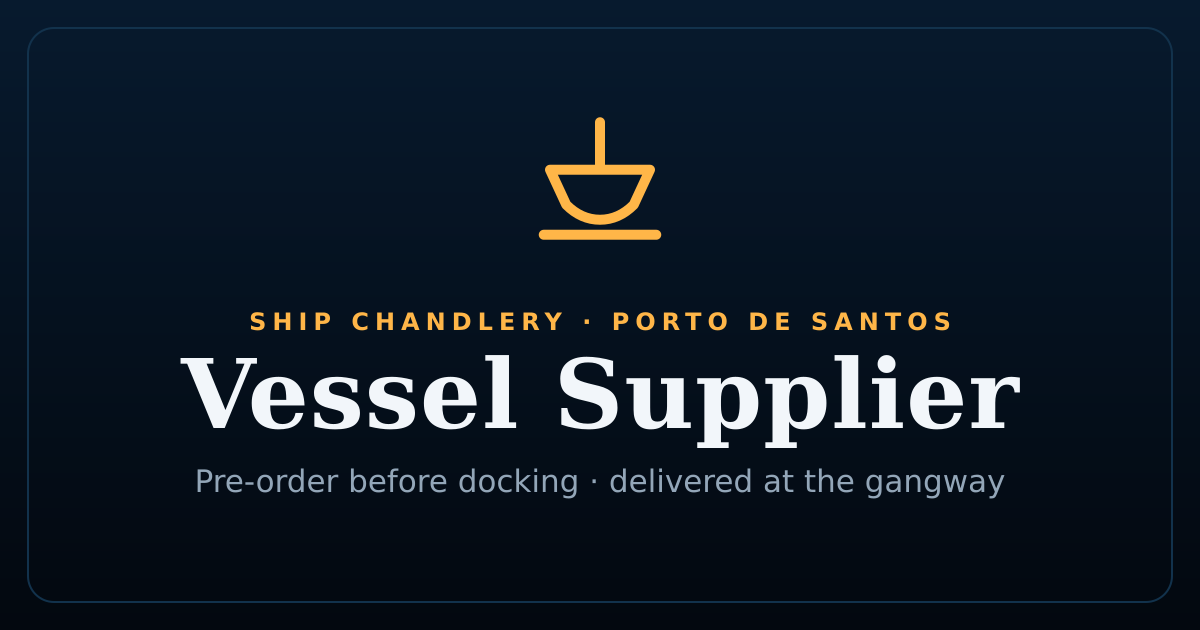
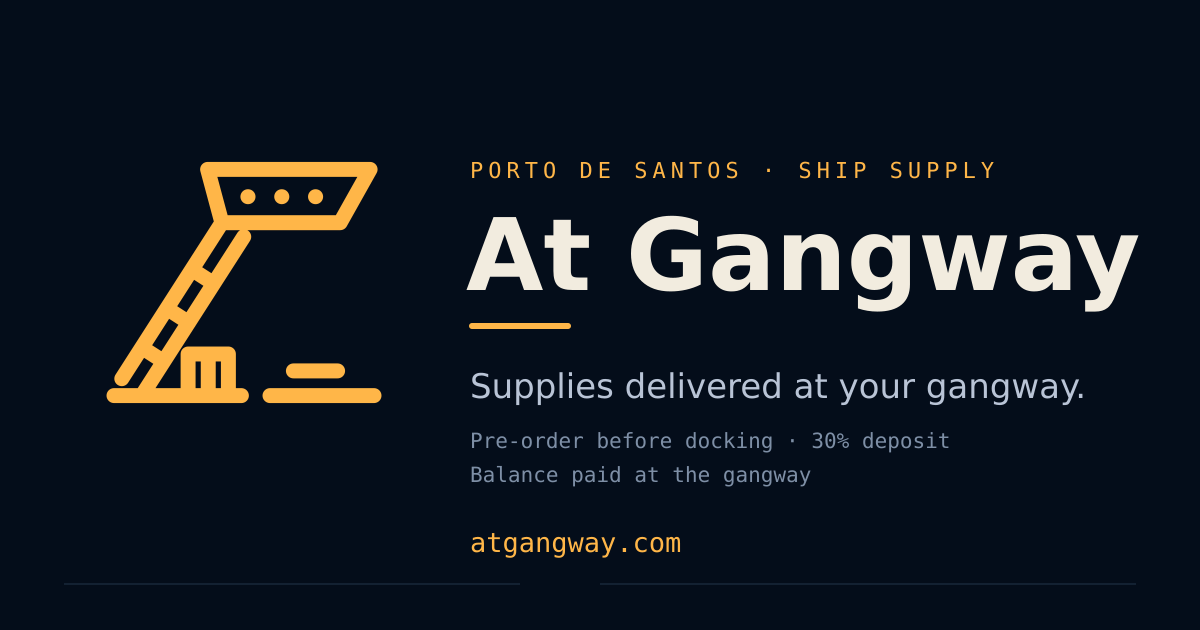
feat(brand): At Gangway — identidade completa, domínio e contato
A marca muda de Vessel Supplier para At Gangway (atgangway.com), e a
identidade deixa de ser um nome escrito:

- Símbolo novo em components/Icon.tsx (mantém o nome IconAnchor pelos
  imports): o momento da entrega desenhado — casco atracado com
  escotilhas, a PRANCHA DE EMBARQUE com degraus pousando no cais, o
  pacote esperando na ponta, e o vão cais/água embaixo. Mesmo traço em
  header, gaveta e página de erro.
- app/icon.svg (aba do Chrome) em versão simplificada — a 16px o que
  tem de ler é a diagonal da prancha; scripts/identidade.mjs gera
  apple-icon.png (180) e public/og.png (1200×630, o cartão de
  WhatsApp/Instagram) do mesmo desenho, via sharp.
- Metadata/OG/twitter/manifest com o nome, descrição e alt novos;
  metadataBase e fallbacks de env → https://atgangway.com; contato →
  help@atgangway.com; WhatsApp no rodapé → wa.me/5511970561448.
- Wordmark At/Gangway no header e na gaveta (aria-labels juntos);
  textos de terms/privacy/share/e-mails/README trocados; templates de
  auth (supabase/templates) idem.
- Código de pedido vira AG-<serial> (migração codigo_ag no banco;
  nota em supabase/migrations/20260831160000_codigo_ag.sql).

Claude-Session: https://claude.ai/code/session_014MYs7gn3q6QqatAh2M38UT

diff --git a/app/layout.tsx b/app/layout.tsx
@@ -8,32 +8,32 @@ import SiteChrome from "@/components/SiteChrome";
 import SiteFooter from "@/components/SiteFooter";
 
 export const metadata: Metadata = {
-  metadataBase: new URL(process.env.NEXT_PUBLIC_SITE_URL || "https://vesselsupplierco.vercel.app"),
+  metadataBase: new URL(process.env.NEXT_PUBLIC_SITE_URL || "https://atgangway.com"),
   title: {
-    default: "Vessel Supplier",
-    template: "%s · Vessel Supplier",
+    default: "At Gangway",
+    template: "%s · At Gangway",
   },
   description:
-    "Pre-order supplies before docking — delivered at the gangway. Porto de Santos.",
+    "Supplies delivered at your gangway. Pre-order before docking — Porto de Santos.",
   openGraph: {
-    siteName: "Vessel Supplier",
-    title: "Vessel Supplier — gangway delivery at Porto de Santos",
+    siteName: "At Gangway",
+    title: "At Gangway — supplies delivered at your gangway",
     description:
-      "Your order rides with your vessel's ETA. Pre-order before docking, pay a 30% deposit, receive at the gangway.",
+      "Your order rides with your vessel's ETA. Pre-order before docking, pay a 30% deposit, receive at the gangway. Porto de Santos.",
     type: "website",
     // O cartão que o WhatsApp mostra. O link do Captain viaja colado em
     // grupo de tripulação, e link sem imagem lê como link suspeito —
     // justamente no canal que é o programa inteiro de indicação.
-    images: [{ url: "/og.png", width: 1200, height: 630, alt: "Vessel Supplier — delivered to your gangway at Porto de Santos" }],
+    images: [{ url: "/og.png", width: 1200, height: 630, alt: "At Gangway — supplies delivered at your gangway, Porto de Santos" }],
   },
   twitter: {
     card: "summary_large_image",
-    title: "Vessel Supplier — gangway delivery at Porto de Santos",
+    title: "At Gangway — supplies delivered at your gangway",
     images: ["/og.png"],
   },
   appleWebApp: {
     capable: true,
-    title: "Vessel",
+    title: "Gangway",
     statusBarStyle: "black-translucent",
   },
 };

diff --git a/app/terms/page.tsx b/app/terms/page.tsx
@@ -7,7 +7,7 @@ import { DEPOSIT_PCT } from "@/lib/money";
 export const metadata: Metadata = {
   title: "Terms & Conditions",
   description:
-    "How an order with Vessel Supplier works — deposit, balance at the gangway, cancellation rights and credit for a diverted call.",
+    "How an order with At Gangway works — deposit, balance at the gangway, cancellation rights and credit for a diverted call.",
 };
 
 /** Data da última revisão do texto. Termo sem data é termo que ninguém
@@ -50,13 +50,13 @@ export default function TermsPage() {
       <h1 className="pagettl">Terms &amp; Conditions</h1>
       <p className="pagelead">
         Last updated {LAST_UPDATED}. These terms govern orders placed with
-        Vessel Supplier.
+        At Gangway.
       </p>
 
       <section className="pdp-block">
         <h3>1 · Who you are contracting with</h3>
         <p className="pdp-text">
-          Vessel Supplier is the online store at Porto de Santos, São Paulo,
+          At Gangway is the online store at Porto de Santos, São Paulo,
           Brazil. Orders are handled by the same
           people who run the counter — there is no marketplace between us and
           you.
@@ -304,7 +304,7 @@ export default function TermsPage() {
           <a className="alink" href={`mailto:${CONTACT_EMAIL}`}>
             {CONTACT_EMAIL}
           </a>{" "}
-          · Vessel Supplier, Porto de Santos, São Paulo, Brazil. See also the{" "}
+          · At Gangway, Porto de Santos, São Paulo, Brazil. See also the{" "}
           <Link className="alink" href="/faq">
             FAQ
           </Link>

diff --git a/lib/emails.ts b/lib/emails.ts
@@ -145,7 +145,7 @@ function shell(opts: {
       </td></tr>
 
       <tr><td style="padding:18px 6px 0;color:${C.faint};font-size:12px;line-height:1.6">
-        Vessel Supplier — Porto de Santos.<br>
+        At Gangway — Porto de Santos.<br>
         Questions? Just reply to this e-mail.
         <a href="${opts.siteUrl}" style="color:${C.faint}">${esc(
           opts.siteUrl.replace(/^https?:\/\//, "")
@@ -293,7 +293,7 @@ export function buildOrderEmail(d: OrderEmailData, siteUrl: string): BuiltEmail 
         ``,
         `Track your order: ${href}`,
         ``,
-        `Vessel Supplier — Porto de Santos.`,
+        `At Gangway — Porto de Santos.`,
       ]
         .filter(Boolean)
         .join("\n"),
@@ -332,7 +332,7 @@ export function buildOrderEmail(d: OrderEmailData, siteUrl: string): BuiltEmail 
         `Show this code at the gangway: #${d.code}`,
         `Open order: ${href}`,
         ``,
-        `Vessel Supplier — Porto de Santos.`,
+        `At Gangway — Porto de Santos.`,
       ]
         .filter(Boolean)
         .join("\n"),
@@ -450,7 +450,7 @@ export function buildOrderEmail(d: OrderEmailData, siteUrl: string): BuiltEmail 
       `Order: ${href}`,
       `Captains earn: share your code with the next crew and get credit on their first order.`,
       ``,
-      `Vessel Supplier — Porto de Santos.`,
+      `At Gangway — Porto de Santos.`,
     ]
       .filter(Boolean)
       .join("\n"),

diff --git a/components/Icon.tsx b/components/Icon.tsx
@@ -87,13 +87,17 @@ export function IconTrash({ size = 17, className }: Props) {
   );
 }
 
-/** Casco da marca — o vessel do Vessel Supplier (mastro, casco e linha
- *  d'água). Mantém o nome IconAnchor para não mexer nos imports; é só o
+/** A marca do At Gangway — o momento da entrega, desenhado: o casco
+ *  atracado no alto (escotilhas acesas), a PRANCHA DE EMBARQUE com
+ *  degraus descendo, e o pacote esperando na ponta. Cais e linha
+ *  d'água separados por um vão — o navio de um lado, a entrega do
+ *  outro, a prancha no meio. É o negócio inteiro num símbolo.
+ *  Mantém o nome IconAnchor para não mexer nos imports; é só o
  *  símbolo do logotipo, com uma casa só. */
 export function IconAnchor({ size = 21, className }: Props) {
   return (
-    <svg {...base(size)} className={className} strokeWidth={1.9}>
-      <path d="M12 3.4V11 M4 11H20L17.4 16.6Q15 19 12 19 9 19 6.6 16.6Z M3 21.4H21" />
+    <svg {...base(size)} className={className} strokeWidth={1.7}>
+      <path d="M9.2 3.8H21.7L19.4 7.9H10.3ZM12.3 5.9h.01M14.9 5.9h.01M17.5 5.9h.01M10.3 7.9 2.6 19.9M11.98 8.98 4.28 20.98M7.99 11.5 9.67 12.58M6.07 14.5 7.75 15.58M4.14 17.5 5.82 18.58M7.7 18h3.1v3.2H7.7ZM9.25 18v3.2M2 21.2h9.8M14 21.2h8M15.8 19.3h3.4" />
     </svg>
   );
 }

diff --git a/components/SiteHeader.tsx b/components/SiteHeader.tsx
@@ -90,14 +90,14 @@ export default function SiteHeader({
           </button>
 
           {/* O nome acessível precisa CONTER o texto visível (WCAG 2.5.3).
-              Os dois spans colavam em "VesselSupplier" — sem o espaço, e
+              Os dois spans colavam em "AtGangway" — sem o espaço, e
               com o travessão no aria-label, nada batia: quem usa comando
-              de voz dizia "clicar Vessel Supplier" e não achava o link. */}
-          <Link href="/" className="sunlogo" aria-label="Vessel Supplier home">
+              de voz dizia "clicar At Gangway" e não achava o link. */}
+          <Link href="/" className="sunlogo" aria-label="At Gangway home">
             <IconAnchor className="mark" />
             <span className="word">
-              <span className="l1">Vessel</span>{" "}
-              <span className="l2">Supplier</span>
+              <span className="l1">At</span>{" "}
+              <span className="l2">Gangway</span>
             </span>
           </Link>
 

diff --git a/components/ShareCode.tsx b/components/ShareCode.tsx
@@ -18,7 +18,7 @@ export default function ShareCode({ code, link }: { code: string; link: string }
      do texto, ou a mensagem chega sem ele. Daí a frase seca para um
      lado e a frase com link para o outro. */
   const frase =
-    `Order from Vessel Supplier with my code ${code} — delivered at the gangway ` +
+    `Order from At Gangway with my code ${code} — delivered at the gangway ` +
     `in Santos.`;
   const comLink = `${frase} ${link}`;
 
@@ -26,7 +26,7 @@ export default function ShareCode({ code, link }: { code: string; link: string }
     // Web Share abre o WhatsApp direto no celular; no desktop cai no copiar.
     if (navigator.share) {
       try {
-        await navigator.share({ title: "Vessel Supplier", text: frase, url: link });
+        await navigator.share({ title: "At Gangway", text: frase, url: link });
         return;
       } catch (e) {
         /* Desistir NÃO é falhar. O catch pegava os dois casos e seguia

diff --git a/app/privacy/page.tsx b/app/privacy/page.tsx
@@ -6,7 +6,7 @@ import { CONTACT_EMAIL } from "@/lib/env";
 export const metadata: Metadata = {
   title: "Privacy Policy",
   description:
-    "What Vessel Supplier collects, why customs requires it, who processes it, and how to exercise your rights under Brazil's LGPD.",
+    "What At Gangway collects, why customs requires it, who processes it, and how to exercise your rights under Brazil's LGPD.",
 };
 
 const LAST_UPDATED = "26 August 2026";
@@ -52,7 +52,7 @@ export default function PrivacyPage() {
       <section className="pdp-block">
         <h3>1 · Who controls your data</h3>
         <p className="pdp-text">
-          Vessel Supplier, at Porto de Santos, São Paulo, Brazil, is the
+          At Gangway, at Porto de Santos, São Paulo, Brazil, is the
           controller. Contact for anything on this page:{" "}
           <a className="alink" href={`mailto:${CONTACT_EMAIL}`}>
             {CONTACT_EMAIL}

diff --git a/lib/env.ts b/lib/env.ts
@@ -34,7 +34,7 @@ export const supabaseConfigured = Boolean(SUPABASE_URL && SUPABASE_ANON_KEY);
 // incondicional porque o metadataBase do layout precisa de uma URL
 // válida até num build sem env nenhuma.
 export const SITE_URL =
-  process.env.NEXT_PUBLIC_SITE_URL || "https://vesselsupplierco.vercel.app";
+  process.env.NEXT_PUBLIC_SITE_URL || "https://atgangway.com";
 
 /* NEXT_PUBLIC_USD_BRL_RATE foi removida. Era 5.30 congelada no build
    com o PTAX real em 5,1490 — e como a cobrança era em real, a
@@ -42,4 +42,4 @@ export const SITE_URL =
    guardada em fx_rates e atualizada por cron. */
 
 export const CONTACT_EMAIL =
-  process.env.NEXT_PUBLIC_CONTACT_EMAIL || "ahoy@marinerssupplyco.com";
+  process.env.NEXT_PUBLIC_CONTACT_EMAIL || "help@atgangway.com";

diff --git a/components/CategoryDrawer.tsx b/components/CategoryDrawer.tsx
@@ -94,11 +94,11 @@ export default function CategoryDrawer({
         aria-label={title ? `${title} categories` : "Categories"}
       >
         <div className="drawer-top">
-          <Link href="/" className="sunlogo" onClick={onClose} aria-label="Vessel Supplier — home">
+          <Link href="/" className="sunlogo" onClick={onClose} aria-label="At Gangway — home">
             <IconAnchor className="mark" />
             <span className="word">
-              <span className="l1">Vessel</span>
-              <span className="l2">Supplier</span>
+              <span className="l1">At</span>
+              <span className="l2">Gangway</span>
             </span>
           </Link>
           <button className="drawer-x" onClick={onClose} aria-label="Close">

diff --git a/components/SiteFooter.tsx b/components/SiteFooter.tsx
@@ -38,6 +38,7 @@ const SECTIONS = [
       { label: "FAQ", href: "/faq" },
       { label: "Ports & delivery schedule", href: "/ports" },
       { label: "Contact us", href: `mailto:${CONTACT_EMAIL}` },
+      { label: "WhatsApp", href: "https://wa.me/5511970561448" },
     ],
   },
   {
@@ -156,7 +157,7 @@ export default function SiteFooter() {
       <SelosPagamento />
 
       <div className="sunfoot-legal">
-        © {new Date().getFullYear()} Vessel Supplier — Porto de Santos.
+        © {new Date().getFullYear()} At Gangway — Porto de Santos.
         <br />
         <Link href="/terms">Terms &amp; Conditions</Link> ·{" "}
         <Link href="/privacy">Privacy Policy</Link> ·{" "}

diff --git a/app/globals.css b/app/globals.css
@@ -1171,7 +1171,7 @@ input:-webkit-autofill:focus {
 /* Logotipo compacto, em duas linhas.
    A conta que obriga: para o centro ser simétrico, cada lateral
    precisa caber os três ícones (120px). Isso deixa 118px para a
-   marca, e "Vessel Supplier" numa linha ocupa 136px — não cabe sem
+   marca, e "At Gangway" numa linha ocupa 136px — não cabe sem
    colidir com o ícone de conta, que era o que acontecia. Empilhado,
    o conjunto ocupa ~88px, fica centrado de verdade e ainda lê como
    logotipo em vez de mais um rótulo entre ícones. */

diff --git a/app/manifest.ts b/app/manifest.ts
@@ -2,10 +2,10 @@ import type { MetadataRoute } from "next";
 
 export default function manifest(): MetadataRoute.Manifest {
   return {
-    name: "Vessel Supplier",
-    short_name: "Vessel",
+    name: "At Gangway",
+    short_name: "Gangway",
     description:
-      "Pre-order supplies before docking — delivered at the gangway. Porto de Santos.",
+      "Supplies delivered at your gangway. Pre-order before docking — Porto de Santos.",
     start_url: "/",
     display: "standalone",
     background_color: "#01060D",
